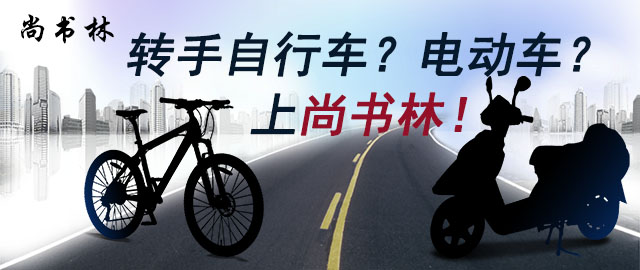
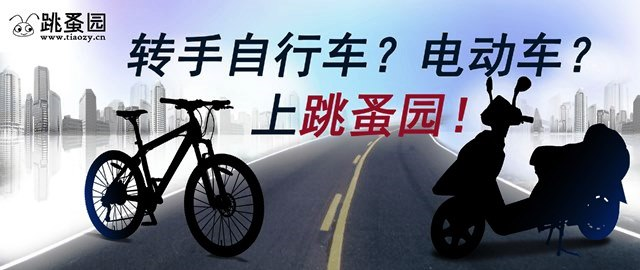
修改静态文件

diff --git a/templates/index.html b/templates/index.html
@@ -6,7 +6,7 @@
     <meta http-equiv="Content-Type" content="text/html;charset=utf-8"/>
     <meta http-equiv="Content-Language" content="zh-cn"/>
     <title>跳蚤园</title>
-    <link rel="shortcut icon" href="/static/images/ssl-icon.ico" type="image/x-icon">
+    <link rel="shortcut icon" href="/static/images/ssl-icon.png" type="image/x-icon">
      <link rel="stylesheet" href="/static/toastr/toastr.min.css">
     <link rel="stylesheet" href="/static/styles/index.css">
     <script language="javascript"  src="/static/scripts/jquery-1.11.2.min.js" type="text/javascript"></script>
@@ -18,7 +18,7 @@
 </head>
 <body class = "homebody">
     <!--topbar-->
-    <div id = "topbar">
+    <div id = "topbar"> 
         <div class="w pos">
             <div class="bar_left">
                 <h2>清华大学</h2>
@@ -63,7 +63,7 @@
     <div id="homeWrap" class="wrapper">
          <div id = "header">
             <div id="headerinside">
-                <a href="/" target="_self" id="logo" onclick="clickLog('from=sylogo_bj');"><img src="/static/images/logo.gif" alt="中文最大生活信息门户" title="58同城，让生活更简单" width="188" height="50"></a>
+                <a href="/" target="_self" id="logo" onclick="clickLog('from=sylogo_bj');"><img src="/static/images/logo.jpg" alt="中文最大生活信息门户" title="58同城，让生活更简单" width="188" height="50"></a>
                 <form onsubmit="_gaq.push([&quot;pageTracker._trackEvent&quot;, &quot;home&quot;, &quot;search_top_click&quot;, &quot;/bj/index/&quot;]);var r=true;try{b_query(); r=false;}catch(e){};return r;" action="/sou/" target="_self">
                     <div id="searchbar">
                         <div id="searkey">
@@ -134,7 +134,7 @@
                                 <li class="item">
                                     <div>                            
                                         <a href="/">
-                                            <img alt="闲鱼" src="/static/images/slider-1.jpg">
+                                            <img alt="闲鱼" src="/static/images/home_1.jpg">
                                         </a>
                                     </div>
                                 </li>
@@ -148,7 +148,7 @@
                                 <li class="item">
                                     <div>                            
                                         <a href="/">
-                                            <img alt="数娱" src="/static/images/slider-3.jpg">
+                                            <img alt="数娱" src="/static/images/home_3.jpg">
                                         </a>
                                     </div>
                                 </li>

diff --git a/templates/open_item.html b/templates/open_item.html
@@ -6,7 +6,7 @@
     <meta http-equiv="Content-Type" content="text/html;charset=utf-8"/>
     <meta http-equiv="Content-Language" content="zh-cn"/>
     <title>跳蚤园</title>
-    <link rel="shortcut icon" href="/static/images/ssl-icon.ico" type="image/x-icon">
+    <link rel="shortcut icon" href="/static/images/ssl-icon.png" type="image/x-icon">
     <link rel="stylesheet" href="/static/toastr/toastr.min.css">
     <script language="javascript"  src="/static/scripts/jquery-1.11.2.min.js" type="text/javascript"></script>
     <script src="/static/scripts/jquery.alerts.js" type="text/javascript"></script>
@@ -58,7 +58,7 @@
     </div>
     <div id = "header">
         <div id="headerinside">
-            <a href="/" target="_self" id="logo" onclick="clickLog('from=sylogo_bj');"><img src="/static/images/logo.gif" alt="中文最大生活信息门户" title="58同城，让生活更简单" width="188" height="50"></a>
+            <a href="/" target="_self" id="logo" onclick="clickLog('from=sylogo_bj');"><img src="/static/images/logo.jpg" alt="中文最大生活信息门户" title="58同城，让生活更简单" width="188" height="50"></a>
             <form onsubmit="_gaq.push([&quot;pageTracker._trackEvent&quot;, &quot;home&quot;, &quot;search_top_click&quot;, &quot;/bj/index/&quot;]);var r=true;try{b_query(); r=false;}catch(e){};return r;" action="/sou/" target="_self">
                 <div id="searchbar">
                     <div id="searkey">

diff --git a/templates/ask_item.html b/templates/ask_item.html
@@ -6,7 +6,7 @@
     <meta http-equiv="Content-Type" content="text/html;charset=utf-8"/>
     <meta http-equiv="Content-Language" content="zh-cn"/>
     <title>求购闲置-跳蚤园</title>
-    <link rel="shortcut icon" href="/static/images/ssl-icon.ico" type="image/x-icon">
+    <link rel="shortcut icon" href="/static/images/ssl-icon.png" type="image/x-icon">
     <link rel="stylesheet" href="/static/styles/ask_item.css">
     <script language="javascript"  src="/static/scripts/jquery-1.11.2.min.js" type="text/javascript"></script>
      <script src="/static/scripts/jquery.alerts.js" type="text/javascript"></script>
@@ -33,7 +33,7 @@
 <body>
     <div class="header">
         <a href="/" id="logo">
-            <img src="/static/images/logo.gif" alt="尚书林">
+            <img src="/static/images/logo.jpg" alt="尚书林">
         </a>
         <div class="header-title">求购闲置</div>
         <div class="return-home">

diff --git a/templates/pub_2.html b/templates/pub_2.html
@@ -6,7 +6,7 @@
     <meta http-equiv="Content-Type" content="text/html;charset=utf-8"/>
     <meta http-equiv="Content-Language" content="zh-cn"/>
     <title>发布闲置-跳蚤园</title>
-    <link rel="shortcut icon" href="/static/images/ssl-icon.ico" type="image/x-icon">
+    <link rel="shortcut icon" href="/static/images/ssl-icon.png" type="image/x-icon">
     <link rel="stylesheet" href="/static/styles/pub_2.css">
     <script language="javascript"  src="/static/scripts/jquery-1.11.2.min.js" type="text/javascript"></script>
      <script src="/static/scripts/jquery.alerts.js" type="text/javascript"></script>
@@ -17,7 +17,7 @@
 <body>
     <div class="header">
         <a href="/" id="logo">
-            <img src="/static/images/logo.gif" alt="尚书林">
+            <img src="/static/images/logo.jpg" alt="尚书林">
         </a>
         <div class="header-title">发布闲置</div>
         <div class="return-home">

diff --git a/templates/pub_1.html b/templates/pub_1.html
@@ -6,7 +6,7 @@
     <meta http-equiv="Content-Type" content="text/html;charset=utf-8"/>
     <meta http-equiv="Content-Language" content="zh-cn"/>
     <title>发布闲置-跳蚤园</title>
-    <link rel="shortcut icon" href="/static/images/ssl-icon.ico" type="image/x-icon">
+    <link rel="shortcut icon" href="/static/images/ssl-icon.png" type="image/x-icon">
     <link rel="stylesheet" href="/static/styles/pub_1.css">
     <script language="javascript"  src="/static/scripts/jquery-1.11.2.min.js" type="text/javascript"></script>
     <script src="/static/scripts/jquery.alerts.js" type="text/javascript"></script>
@@ -19,7 +19,7 @@
 <body>
     <div class="header">
         <a href="/" id="logo">
-            <img src="/static/images/logo.gif" alt="尚书林">
+            <img src="/static/images/logo.jpg" alt="尚书林">
         </a>
         <div class="header-title">发布闲置</div>
         <div class="return-home">

diff --git a/templates/publish.html b/templates/publish.html
@@ -6,7 +6,7 @@
     <meta http-equiv="Content-Type" content="text/html;charset=utf-8"/>
     <meta http-equiv="Content-Language" content="zh-cn"/>
     <title>发布闲置-跳蚤园</title>
-    <link rel="shortcut icon" href="/static/images/ssl-icon.ico" type="image/x-icon">
+    <link rel="shortcut icon" href="/static/images/ssl-icon.png" type="image/x-icon">
     <link rel="stylesheet" href="/static/styles/publish.css">
     <script language="javascript"  src="/static/scripts/jquery-1.11.2.min.js" type="text/javascript"></script>
     <script type="text/javascript" src="/static/scripts/validate.js"></script>
@@ -15,7 +15,7 @@
 <body>
     <div class="header">
         <a href="/" id="logo">
-            <img src="/static/images/logo.gif" alt="尚书林">
+            <img src="/static/images/logo.jpg" alt="尚书林">
         </a>
         <div class="header-title">发布闲置</div>
         <div class="return-home">

diff --git a/templates/reg.html b/templates/reg.html
@@ -6,7 +6,7 @@
     <meta http-equiv="Content-Type" content="text/html;charset=utf-8"/>
     <meta http-equiv="Content-Language" content="zh-cn"/>
     <title>注册会员-跳蚤园</title>
-    <link rel="shortcut icon" href="/static/images/ssl-icon.ico" type="image/x-icon">
+    <link rel="shortcut icon" href="/static/images/ssl-icon.png" type="image/x-icon">
     <link rel="stylesheet" href="/static/styles/reg.css">
     <script language="javascript"  src="/static/scripts/jquery-1.11.2.min.js" type="text/javascript"></script>
     <script type="text/javascript" src="/static/scripts/validate.js"></script>
@@ -15,7 +15,7 @@
 <body>
     <div class="header">
         <a href="/" id="logo">
-            <img src="/static/images/logo.gif" alt="尚书林">
+            <img src="/static/images/logo.jpg" alt="尚书林">
         </a>
         <div class="header-title">用户注册</div>
         <div class="steps">

diff --git a/templates/my_center.html b/templates/my_center.html
@@ -6,7 +6,7 @@
     <meta http-equiv="Content-Type" content="text/html;charset=utf-8"/>
     <meta http-equiv="Content-Language" content="zh-cn"/>
     <title>用户中心-跳蚤园</title>
-    <link rel="shortcut icon" href="/static/images/ssl-icon.ico" type="image/x-icon">
+    <link rel="shortcut icon" href="/static/images/ssl-icon.png" type="image/x-icon">
     <link rel="stylesheet" href="/static/styles/my_center.css">
     <link rel="stylesheet" type="text/css" href="/static/toastr/toastr.min.css">
     <script language="javascript"  src="/static/scripts/jquery-1.11.2.min.js" type="text/javascript"></script>
@@ -64,7 +64,7 @@
     </div>
     <div class="header">
         <a href="/" id="logo">
-            <img src="/static/images/logo.gif" alt="尚书林">
+            <img src="/static/images/logo.jpg" alt="尚书林">
         </a>
         <div class="header-title">用户中心</div>
     </div>

diff --git a/templates/login.html b/templates/login.html
@@ -6,7 +6,7 @@
     <meta http-equiv="Content-Type" content="text/html;charset=utf-8"/>
     <meta http-equiv="Content-Language" content="zh-cn"/>
     <title>会员登录-跳蚤园</title>
-    <link rel="shortcut icon" href="/static/images/ssl-icon.ico" type="image/x-icon">
+    <link rel="shortcut icon" href="/static/images/ssl-icon.png" type="image/x-icon">
     <link rel="stylesheet" href="/static/styles/login.css">
     <script language="javascript"  src="/static/scripts/jquery-1.11.2.min.js" type="text/javascript"></script>
     <script type="text/javascript" src="/static/scripts/login.js"></script>
@@ -14,7 +14,7 @@
 <body>
 	<div class="header">
 		<a href="/" id="logo">
-			<img src="/static/images/logo.gif" alt="尚书林">
+			<img src="/static/images/logo.jpg" alt="尚书林">
 		</a>
 		<div class="header-title">用户登录</div>
 		<div class="return-home">

diff --git a/application/html_files/static/styles/index.css b/application/html_files/static/styles/index.css
@@ -379,7 +379,8 @@ a:hover{
 #logo{
     position:absolute;
     left:0;
-    top:10px
+    top:13px;
+
 }
 
 #searchbar{

diff --git a/application/html_files/static/styles/reg.css b/application/html_files/static/styles/reg.css
@@ -39,7 +39,7 @@ a{
 
 #logo{
 	left: 20px;
-	top: 17px;
+	top: 22px;
 	position: absolute;
 }
 

diff --git a/tiaozy/settings.py b/tiaozy/settings.py
@@ -103,12 +103,11 @@ STATIC_URL = '/static/'
 STATIC_ROOT = os.path.join(BASE_DIR, 'static')
 
 STATICFILES_DIRS = (
-    os.path.join(BASE_DIR, 'application/display/static'),
+    os.path.join(BASE_DIR, 'application/html_files/static'),
 )
 
 TEMPLATE_DIRS = (
     os.path.join(BASE_DIR, 'templates'),
-    os.path.join(BASE_DIR, 'application/display/templates'),
 )
 
 LOGGING = {
